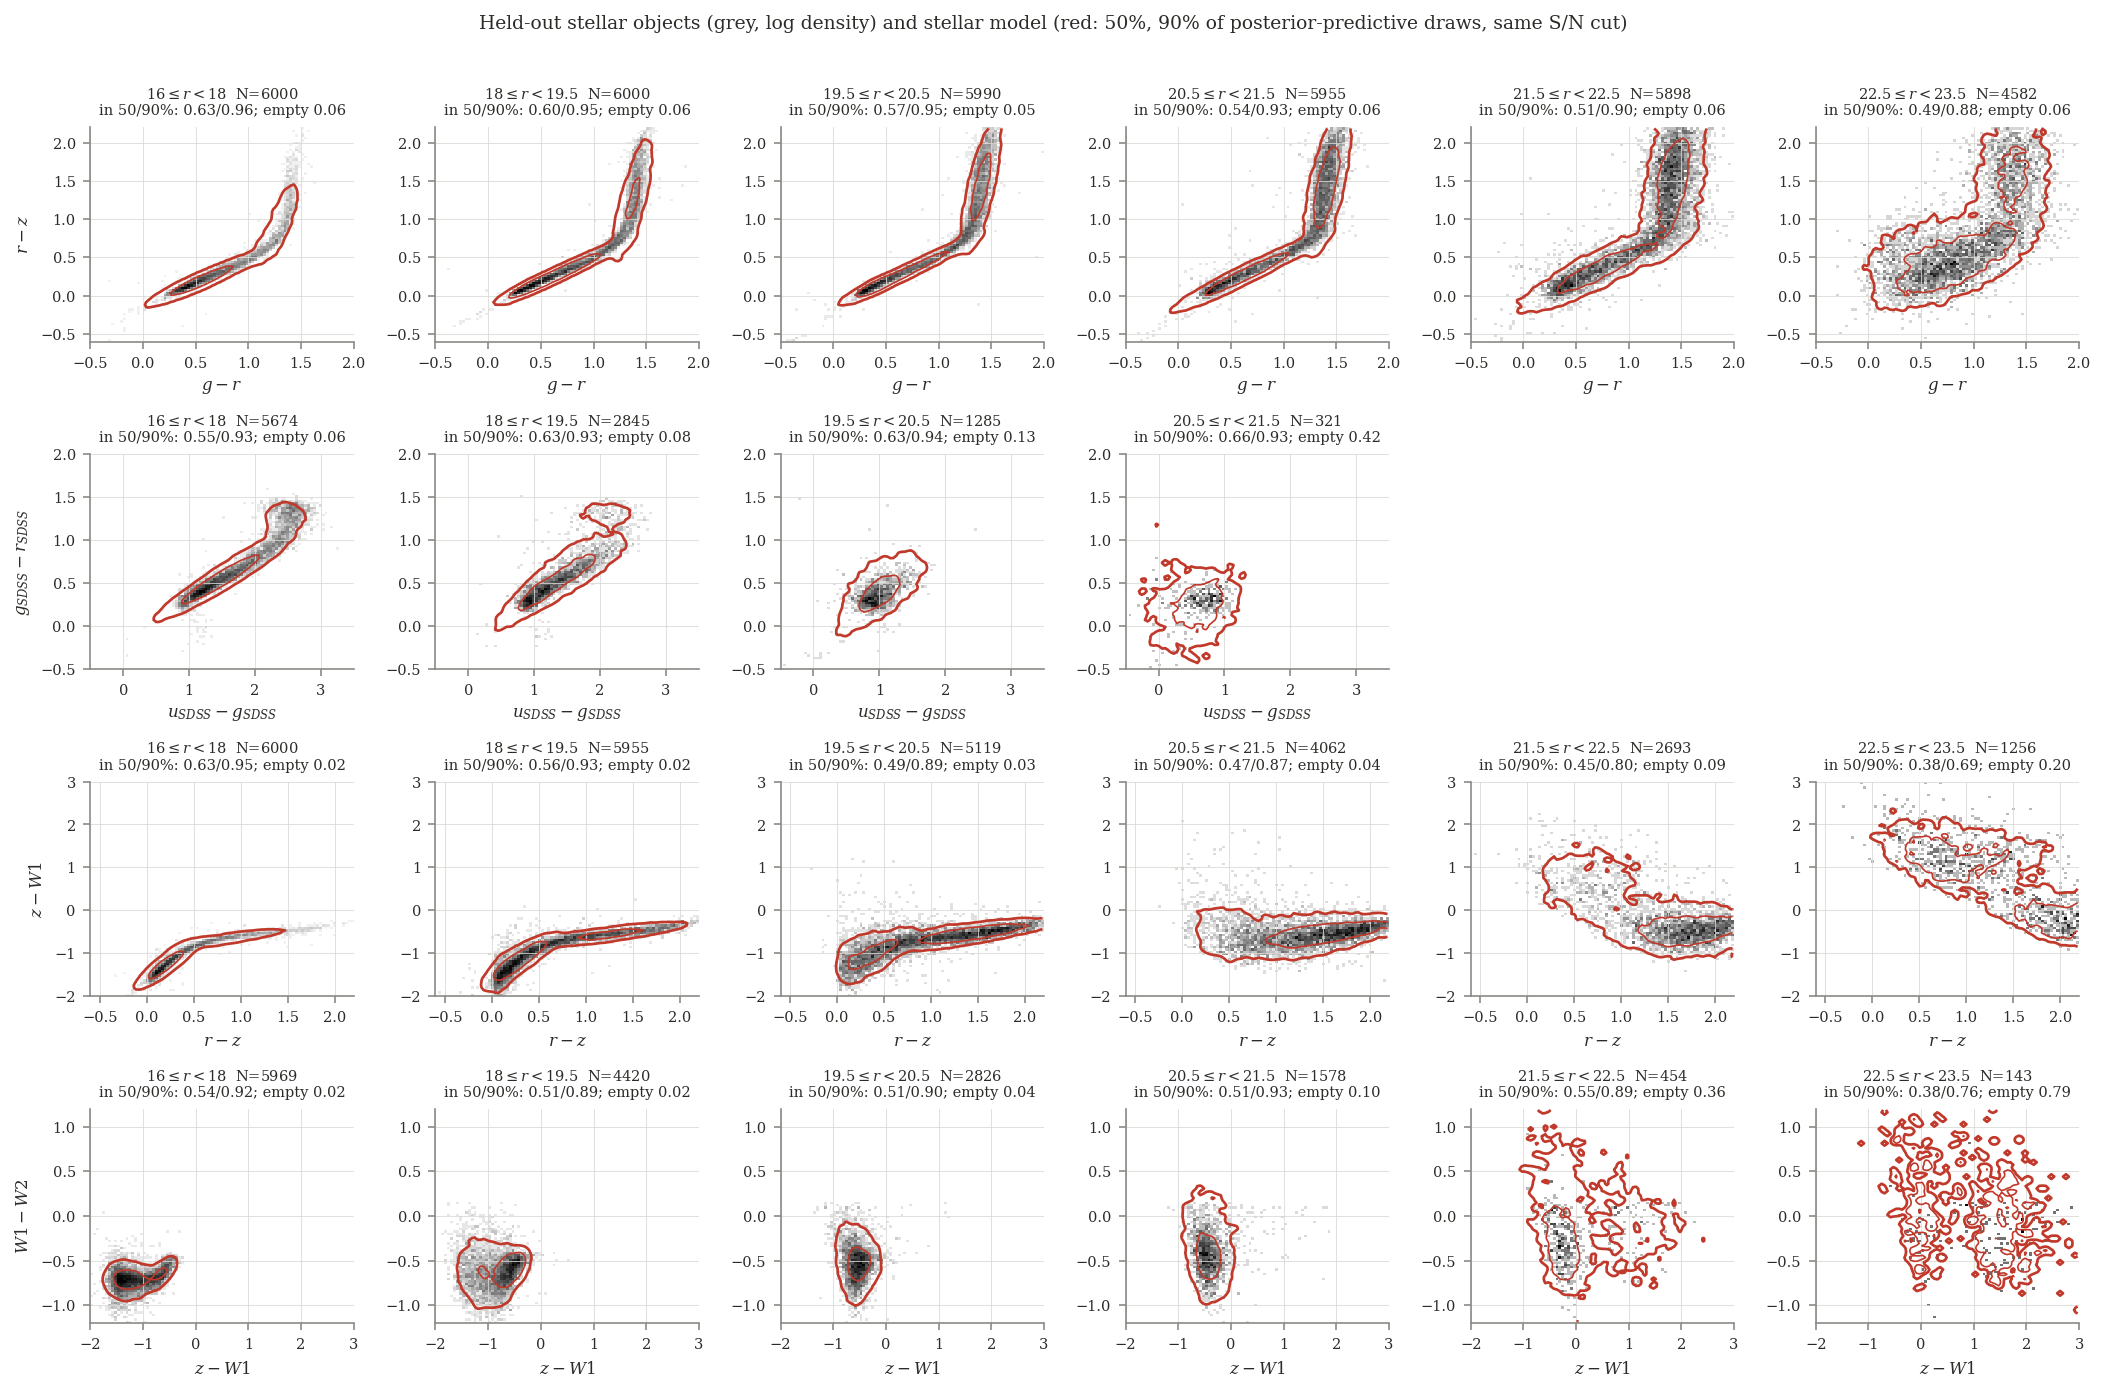
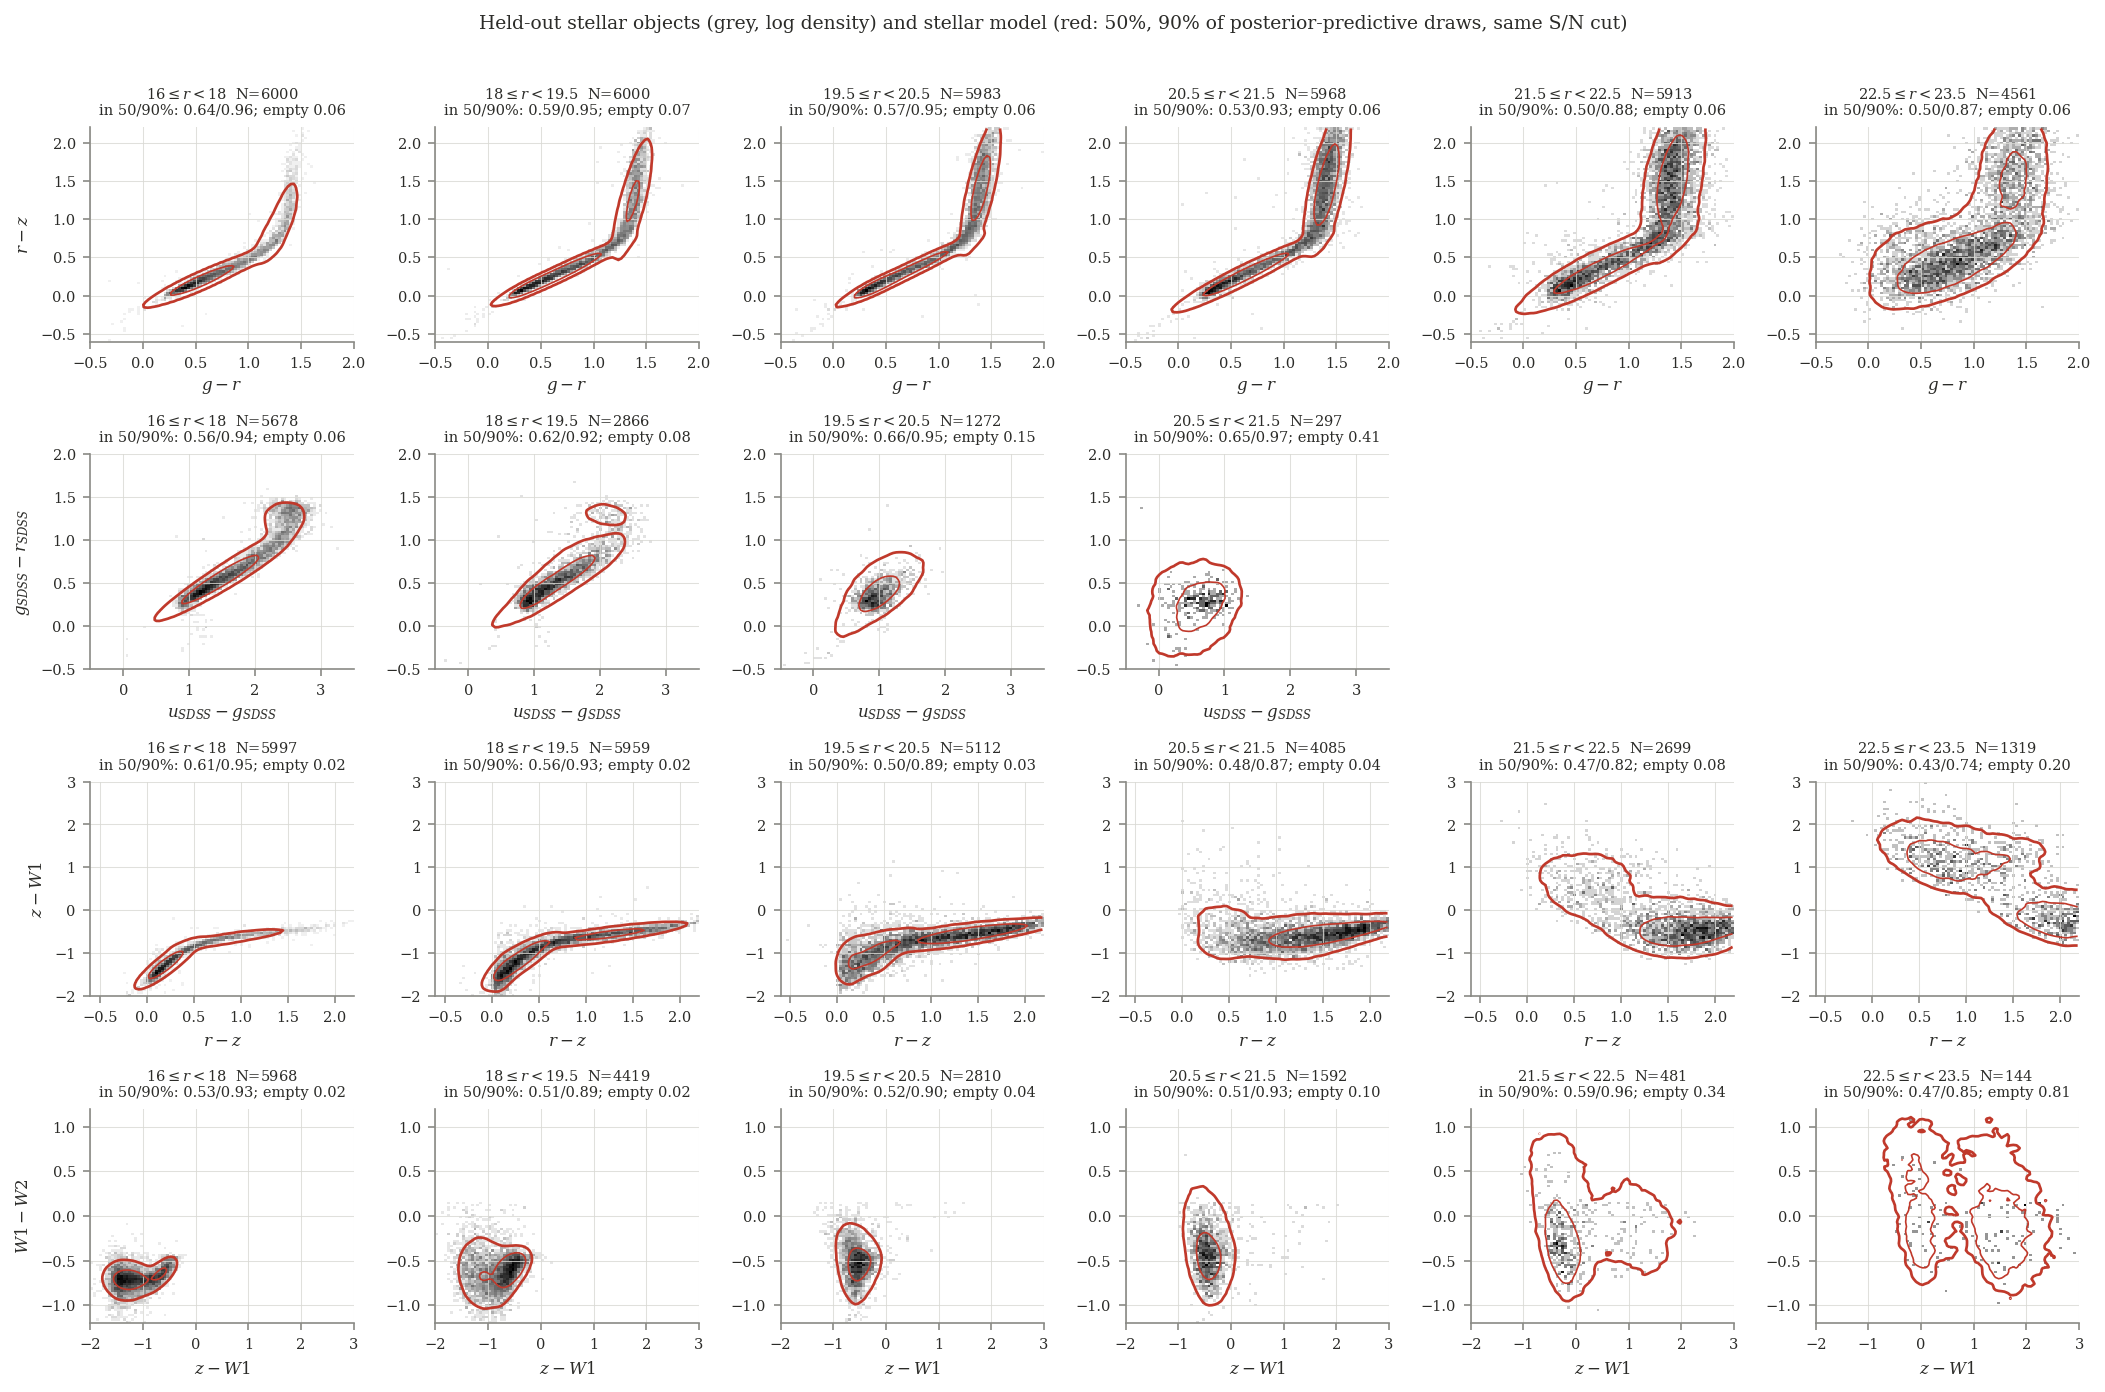
F19: smooth model contours (200 draws per object, vectorised)

diff --git a/scripts/method_unified/fig19_stellar_colour_colour.py b/scripts/method_unified/fig19_stellar_colour_colour.py
@@ -6,7 +6,8 @@ South r S/N >= 10 (the faint limit), likely QSOs removed (Quaia / WISE AGN colou
 observed with S/N >= 5. Extinction-corrected luptitudes (AB).
 Model (contours enclosing 50% and 90%): posterior-predictive draws for the same objects. For each
 object with the plane bands observed, DRAWS samples are taken from the background mixture conditioned
-on its measured Legacy r (component weights from the bundle's sky gate at its l, b); each drawn
+on its measured Legacy r (component weights from the bundle's sky gate at its l, b), DRAWS draws for
+each of up to MAX_ROWS objects per panel; each drawn
 luptitude is converted to flux, the object's own flux error (extinction-corrected variance) is added
 in flux, the result is converted back to luptitude, and the same S/N >= 5 cut is applied to the noisy
 drawn flux. This reproduces how the data were measured and selected (a fixed magnitude error would
@@ -39,7 +40,8 @@ PLANES = [  # (x colour, y colour, x range, y range)
 ]
 LABEL = {S+'g': 'g', S+'r': 'r', S+'z': 'z', S+'w1': 'W1', S+'w2': 'W2', 'sdss:u': 'u_{SDSS}', 'sdss:g': 'g_{SDSS}', 'sdss:r': 'r_{SDSS}'}
 MAG_BINS = [(16, 18), (18, 19.5), (19.5, 20.5), (20.5, 21.5), (21.5, 22.5), (22.5, 23.5)]
-DRAWS = 3
+DRAWS = 200          # per object: Monte Carlo noise in the contours well below the contour levels
+MAX_ROWS = 2000      # objects per panel (random subset) used for the model draws
 MIN_SNR = 5.
 
 
@@ -59,13 +61,15 @@ def predictive(model, rows, plane_bands, rng):
     s00 = V[:, 0, 0][None] + nv[:, :1]                                           # (n, K)
     lw = np.log(np.maximum(w, 1e-300)) - .5*np.log(2*np.pi*s00) - .5*(y[:, :1] - mu[None, :, 0])**2/s00
     p = np.exp(lw - logsumexp(lw, axis=1, keepdims=True))
-    out = np.empty((len(rows), DRAWS, len(plane_bands)))
-    for i in range(len(rows)):
-        ks = rng.choice(len(p[i]), DRAWS, p=p[i])
-        for j, k in enumerate(ks):
-            g = V[k, 1:, 0]/s00[i, k]
-            m = mu[k, 1:] + g*(y[i, 0] - mu[k, 0]); c = V[k, 1:, 1:] - np.outer(g, V[k, 0, 1:])
-            out[i, j] = rng.multivariate_normal(m, c)
+    # Vectorised: component per draw from each row's conditional weights, then the conditional Gaussian.
+    cum = np.cumsum(p, axis=1); u = rng.uniform(size=(len(rows), DRAWS))
+    ks = np.minimum((u[:, :, None] > cum[:, None, :]).sum(axis=2), p.shape[1] - 1)          # (n, DRAWS)
+    ii = np.repeat(np.arange(len(rows)), DRAWS); kk = ks.ravel()
+    g = V[kk, 1:, 0]/s00[ii, kk][:, None]
+    m = mu[kk, 1:] + g*(y[ii, :1] - mu[kk, :1])
+    c = V[kk, 1:, 1:] - g[:, :, None]*V[kk, None, 0, 1:]
+    c = .5*(c + c.swapaxes(1, 2)) + 1e-10*np.eye(c.shape[1])
+    out = (m + np.einsum('nij,nj->ni', np.linalg.cholesky(c), rng.standard_normal(m.shape))).reshape(len(rows), DRAWS, -1)
     # Noise in flux space with each object's own flux error, then back to luptitude.
     soft = model.transform.softening[b[1:]]; a = 2.5/np.log(10)
     flux = 2*soft*np.sinh((22.5 - out)/a - np.log(soft))
@@ -94,7 +98,10 @@ def main():
                 sel = np.sort(rng.choice(sel, 6000, replace=False))
             if len(sel) < 30:
                 ax.set_visible(False); continue
-            draws, snr_draw, yobs, snr_obs = predictive(model, sel, pb, rng)
+            msel = sel if len(sel) <= MAX_ROWS else np.sort(rng.choice(sel, MAX_ROWS, replace=False))
+            draws, snr_draw, _, _ = predictive(model, msel, pb, rng)
+            yobs = np.asarray(d['y'][sel])[:, [idx(x) for x in pb]]
+            snr_obs = np.asarray(d['flux_dered'][sel])[:, [idx(x) for x in pb]]/np.sqrt(np.asarray(d['variance_dered'][sel])[:, [idx(x) for x in pb]])
             keep_d = (snr_obs >= MIN_SNR).all(axis=1)
             keep_m = (snr_draw >= MIN_SNR).all(axis=2)
             if keep_d.sum() < 100:
